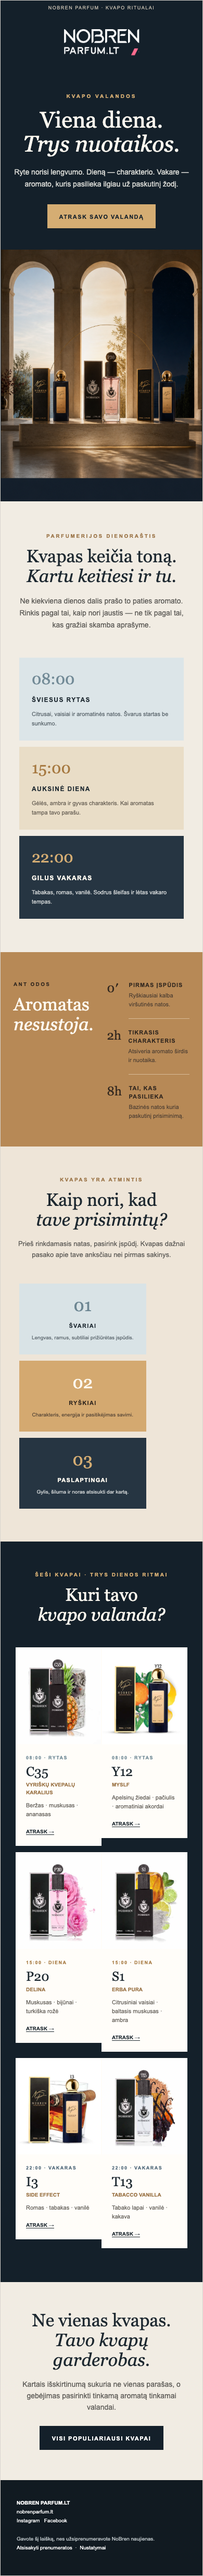
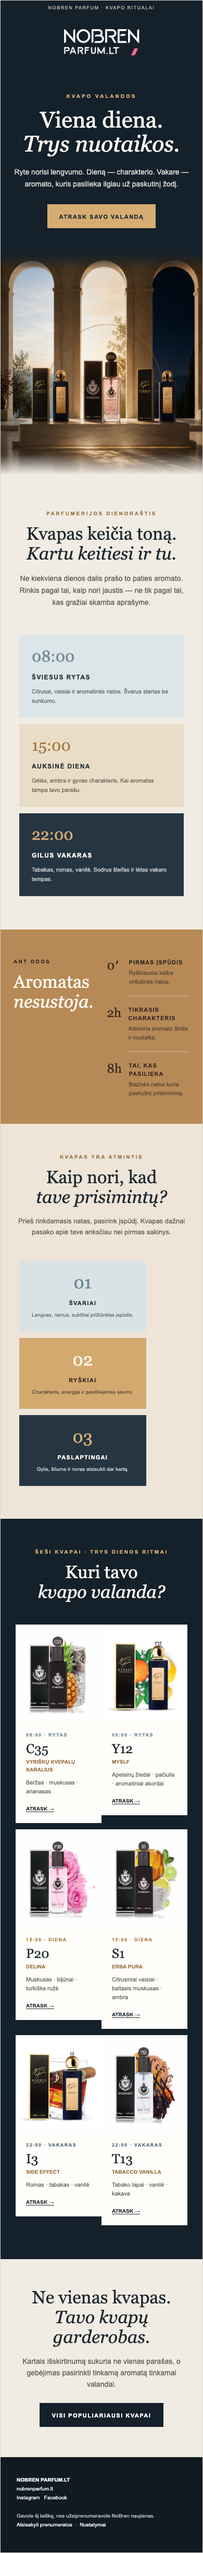
Smooth fragrance hours email transitions

Changed region(s): [[0.0, 0.0312, 1.0, 0.9367], [0.0923, 0.968, 0.1846, 0.9992], [0.2154, 0.968, 0.2769, 0.9992]]

diff --git a/campaigns/2026-08-kvapo-valandos/newsletter-klaviyo-block.html b/campaigns/2026-08-kvapo-valandos/newsletter-klaviyo-block.html
@@ -15,7 +15,7 @@ html,body{margin:0!important;padding:0!important;width:100%!important;background
   <div class="sans" style="max-width:430px;padding-top:20px;font-size:14px;line-height:23px;color:#d5d6d2">Ryte norisi lengvumo. Dieną — charakterio. Vakare — aromato, kuris pasilieka ilgiau už paskutinį žodį.</div>
   <table role="presentation" align="center" style="margin-top:27px"><tr><td bgcolor="#d5ad73" style="padding:14px 23px"><a href="https://nobrenparfum.lt/lt/populiariausi-kvepalai" target="_blank" class="sans" style="font-size:11px;line-height:14px;letter-spacing:1.5px;font-weight:bold;color:#14202a">ATRASK SAVO VALANDĄ</a></td></tr></table>
 </td></tr>
-<tr><td bgcolor="#14202a" style="font-size:0;line-height:0"><img src="https://raw.githubusercontent.com/elaiskai/nobren-email-assets/3bf8b0e085c7478ed63181117f74e9b37bb023a0/campaigns/2026-08-kvapo-valandos/assets/hero/hero-v2.png" width="600" alt="NoBren aromatai nuo ryto iki vakaro" style="width:100%;height:auto"></td></tr>
+<tr><td bgcolor="#f1ece3" style="font-size:0;line-height:0;padding:0"><img src="https://raw.githubusercontent.com/elaiskai/nobren-email-assets/ec2c94ac560da32dcbc012465c4a1e3b6ecbdaa0/campaigns/2026-08-kvapo-valandos/assets/hero/hero-v3.png" width="600" alt="NoBren aromatai nuo ryto iki vakaro" style="display:block;width:100%;height:auto;border:0;margin:0"></td></tr>
 
 <tr><td class="px" align="center" bgcolor="#f1ece3" style="padding:59px 42px 29px">
   <div class="sans" style="font-size:10px;line-height:15px;letter-spacing:2.6px;font-weight:bold;color:#9b7447">PARFUMERIJOS DIENORAŠTIS</div>

diff --git a/campaigns/2026-08-kvapo-valandos/newsletter-klaviyo.html b/campaigns/2026-08-kvapo-valandos/newsletter-klaviyo.html
@@ -19,7 +19,7 @@ html,body{margin:0!important;padding:0!important;width:100%!important;background
   <div class="sans" style="max-width:430px;padding-top:20px;font-size:14px;line-height:23px;color:#d5d6d2">Ryte norisi lengvumo. Dieną — charakterio. Vakare — aromato, kuris pasilieka ilgiau už paskutinį žodį.</div>
   <table role="presentation" align="center" style="margin-top:27px"><tr><td bgcolor="#d5ad73" style="padding:14px 23px"><a href="https://nobrenparfum.lt/lt/populiariausi-kvepalai" target="_blank" class="sans" style="font-size:11px;line-height:14px;letter-spacing:1.5px;font-weight:bold;color:#14202a">ATRASK SAVO VALANDĄ</a></td></tr></table>
 </td></tr>
-<tr><td bgcolor="#14202a" style="font-size:0;line-height:0"><img src="https://raw.githubusercontent.com/elaiskai/nobren-email-assets/3bf8b0e085c7478ed63181117f74e9b37bb023a0/campaigns/2026-08-kvapo-valandos/assets/hero/hero-v2.png" width="600" alt="NoBren aromatai nuo ryto iki vakaro" style="width:100%;height:auto"></td></tr>
+<tr><td bgcolor="#f1ece3" style="font-size:0;line-height:0;padding:0"><img src="https://raw.githubusercontent.com/elaiskai/nobren-email-assets/ec2c94ac560da32dcbc012465c4a1e3b6ecbdaa0/campaigns/2026-08-kvapo-valandos/assets/hero/hero-v3.png" width="600" alt="NoBren aromatai nuo ryto iki vakaro" style="display:block;width:100%;height:auto;border:0;margin:0"></td></tr>
 
 <tr><td class="px" align="center" bgcolor="#f1ece3" style="padding:59px 42px 29px">
   <div class="sans" style="font-size:10px;line-height:15px;letter-spacing:2.6px;font-weight:bold;color:#9b7447">PARFUMERIJOS DIENORAŠTIS</div>

diff --git a/campaigns/2026-08-kvapo-valandos/newsletter.html b/campaigns/2026-08-kvapo-valandos/newsletter.html
@@ -19,7 +19,7 @@ html,body{margin:0!important;padding:0!important;width:100%!important;background
   <div class="sans" style="max-width:430px;padding-top:20px;font-size:14px;line-height:23px;color:#d5d6d2">Ryte norisi lengvumo. Dieną — charakterio. Vakare — aromato, kuris pasilieka ilgiau už paskutinį žodį.</div>
   <table role="presentation" align="center" style="margin-top:27px"><tr><td bgcolor="#d5ad73" style="padding:14px 23px"><a href="https://nobrenparfum.lt/lt/populiariausi-kvepalai" target="_blank" class="sans" style="font-size:11px;line-height:14px;letter-spacing:1.5px;font-weight:bold;color:#14202a">ATRASK SAVO VALANDĄ</a></td></tr></table>
 </td></tr>
-<tr><td bgcolor="#14202a" style="font-size:0;line-height:0"><img src="assets/hero/hero-v2.png" width="600" alt="NoBren aromatai nuo ryto iki vakaro" style="width:100%;height:auto"></td></tr>
+<tr><td bgcolor="#f1ece3" style="font-size:0;line-height:0;padding:0"><img src="assets/hero/hero-v3.png" width="600" alt="NoBren aromatai nuo ryto iki vakaro" style="display:block;width:100%;height:auto;border:0;margin:0"></td></tr>
 
 <tr><td class="px" align="center" bgcolor="#f1ece3" style="padding:59px 42px 29px">
   <div class="sans" style="font-size:10px;line-height:15px;letter-spacing:2.6px;font-weight:bold;color:#9b7447">PARFUMERIJOS DIENORAŠTIS</div>
